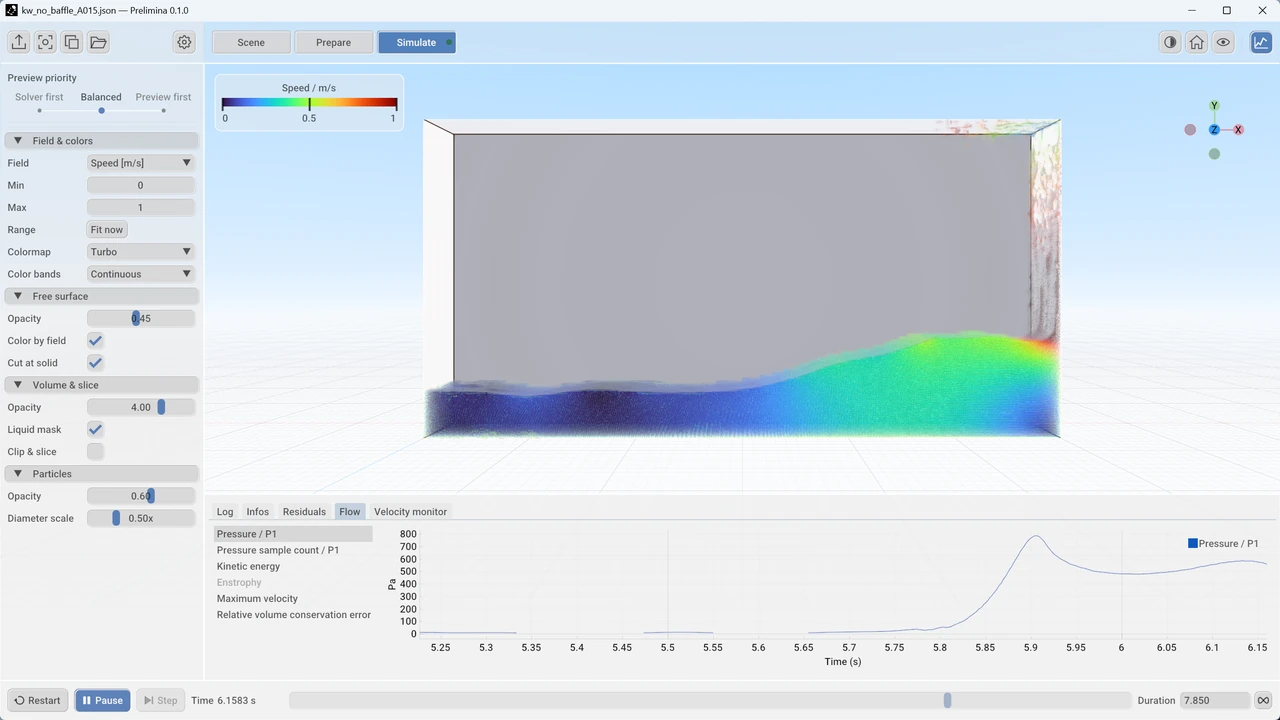
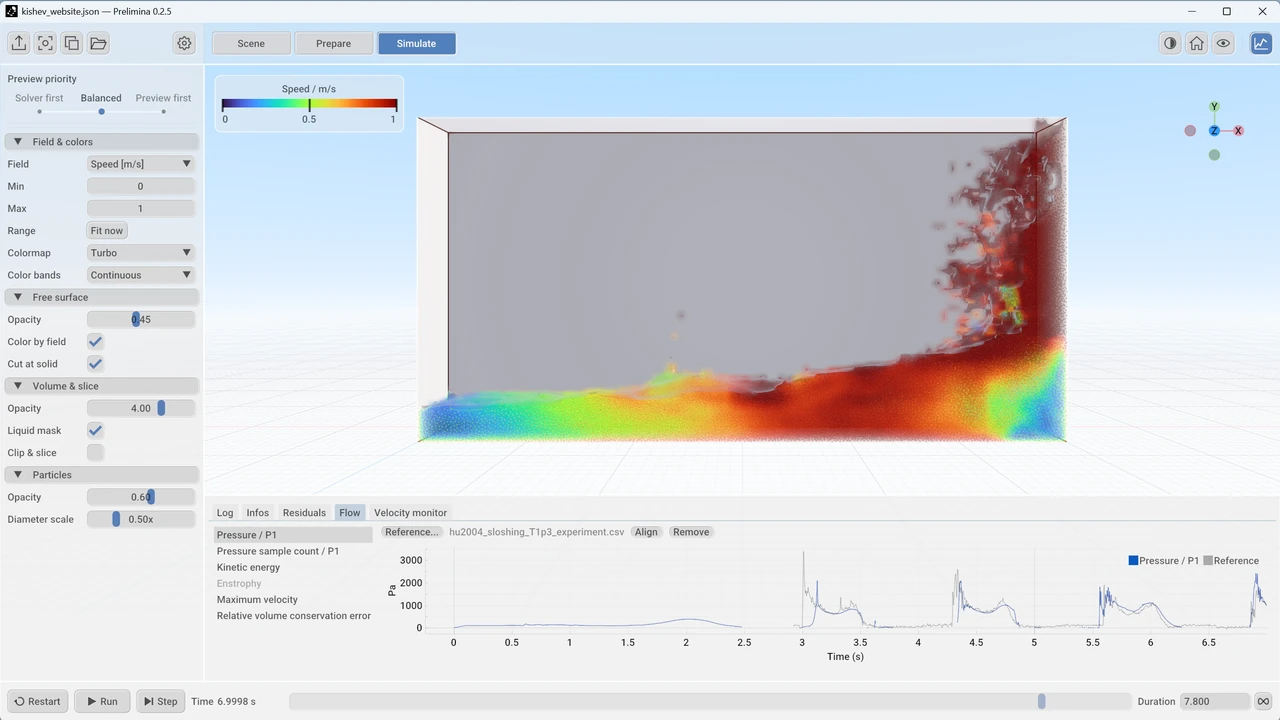
Home: app screenshot with the measured Kishev pressure overlaid on the live P1 graph
A new real capture of the desktop app (0.2.5): the Kishev T1.3 tank at
t = 7.0 s with the wave on the right wall, and the P1 graph from 0 s with
the experiment of Hu, Kashiwagi & Kishev (2004) drawn by the new reference
overlay from the third period on. Alt text updated; a one-line caption
names the grey curve.

diff --git a/src/styles/global.css b/src/styles/global.css
@@ -2141,6 +2141,12 @@ em {
   overflow: hidden;
   background: #ededed;
 }
+.app-shot figcaption {
+  margin-top: 8px;
+  color: var(--muted);
+  font-size: var(--font-meta);
+  line-height: 1.5;
+}
 .app-shot-frame img {
   display: block;
   width: 100%;
